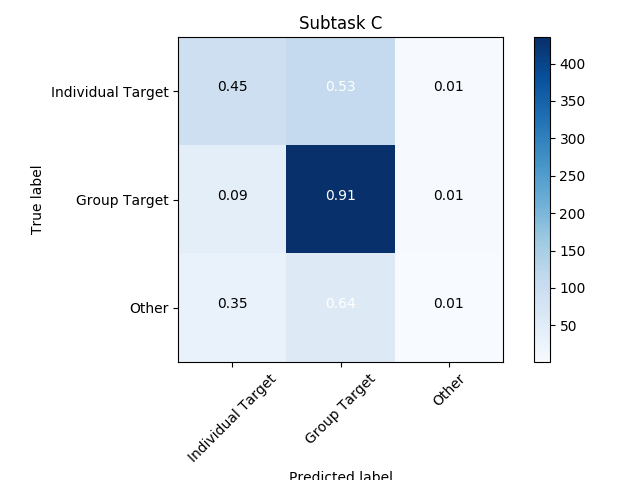
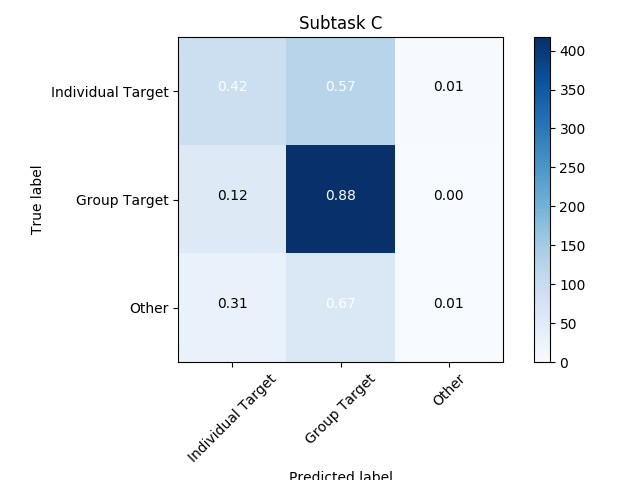
m

diff --git a/offensive_lang.py b/offensive_lang.py
@@ -54,7 +54,7 @@ def plot_confusion_matrix(cm, classes,
     if normalize:
         cm = cm.astype('float') / cm.sum(axis=1)[:, np.newaxis]
 
-    thresh = cm.max() / 2.
+    thresh = cm.max() / 2.4
     for i, j in itertools.product(range(cm.shape[0]), range(cm.shape[1])):
         plt.text(j, i, "{:.2f}".format(cm[i, j]),
                  horizontalalignment="center",
